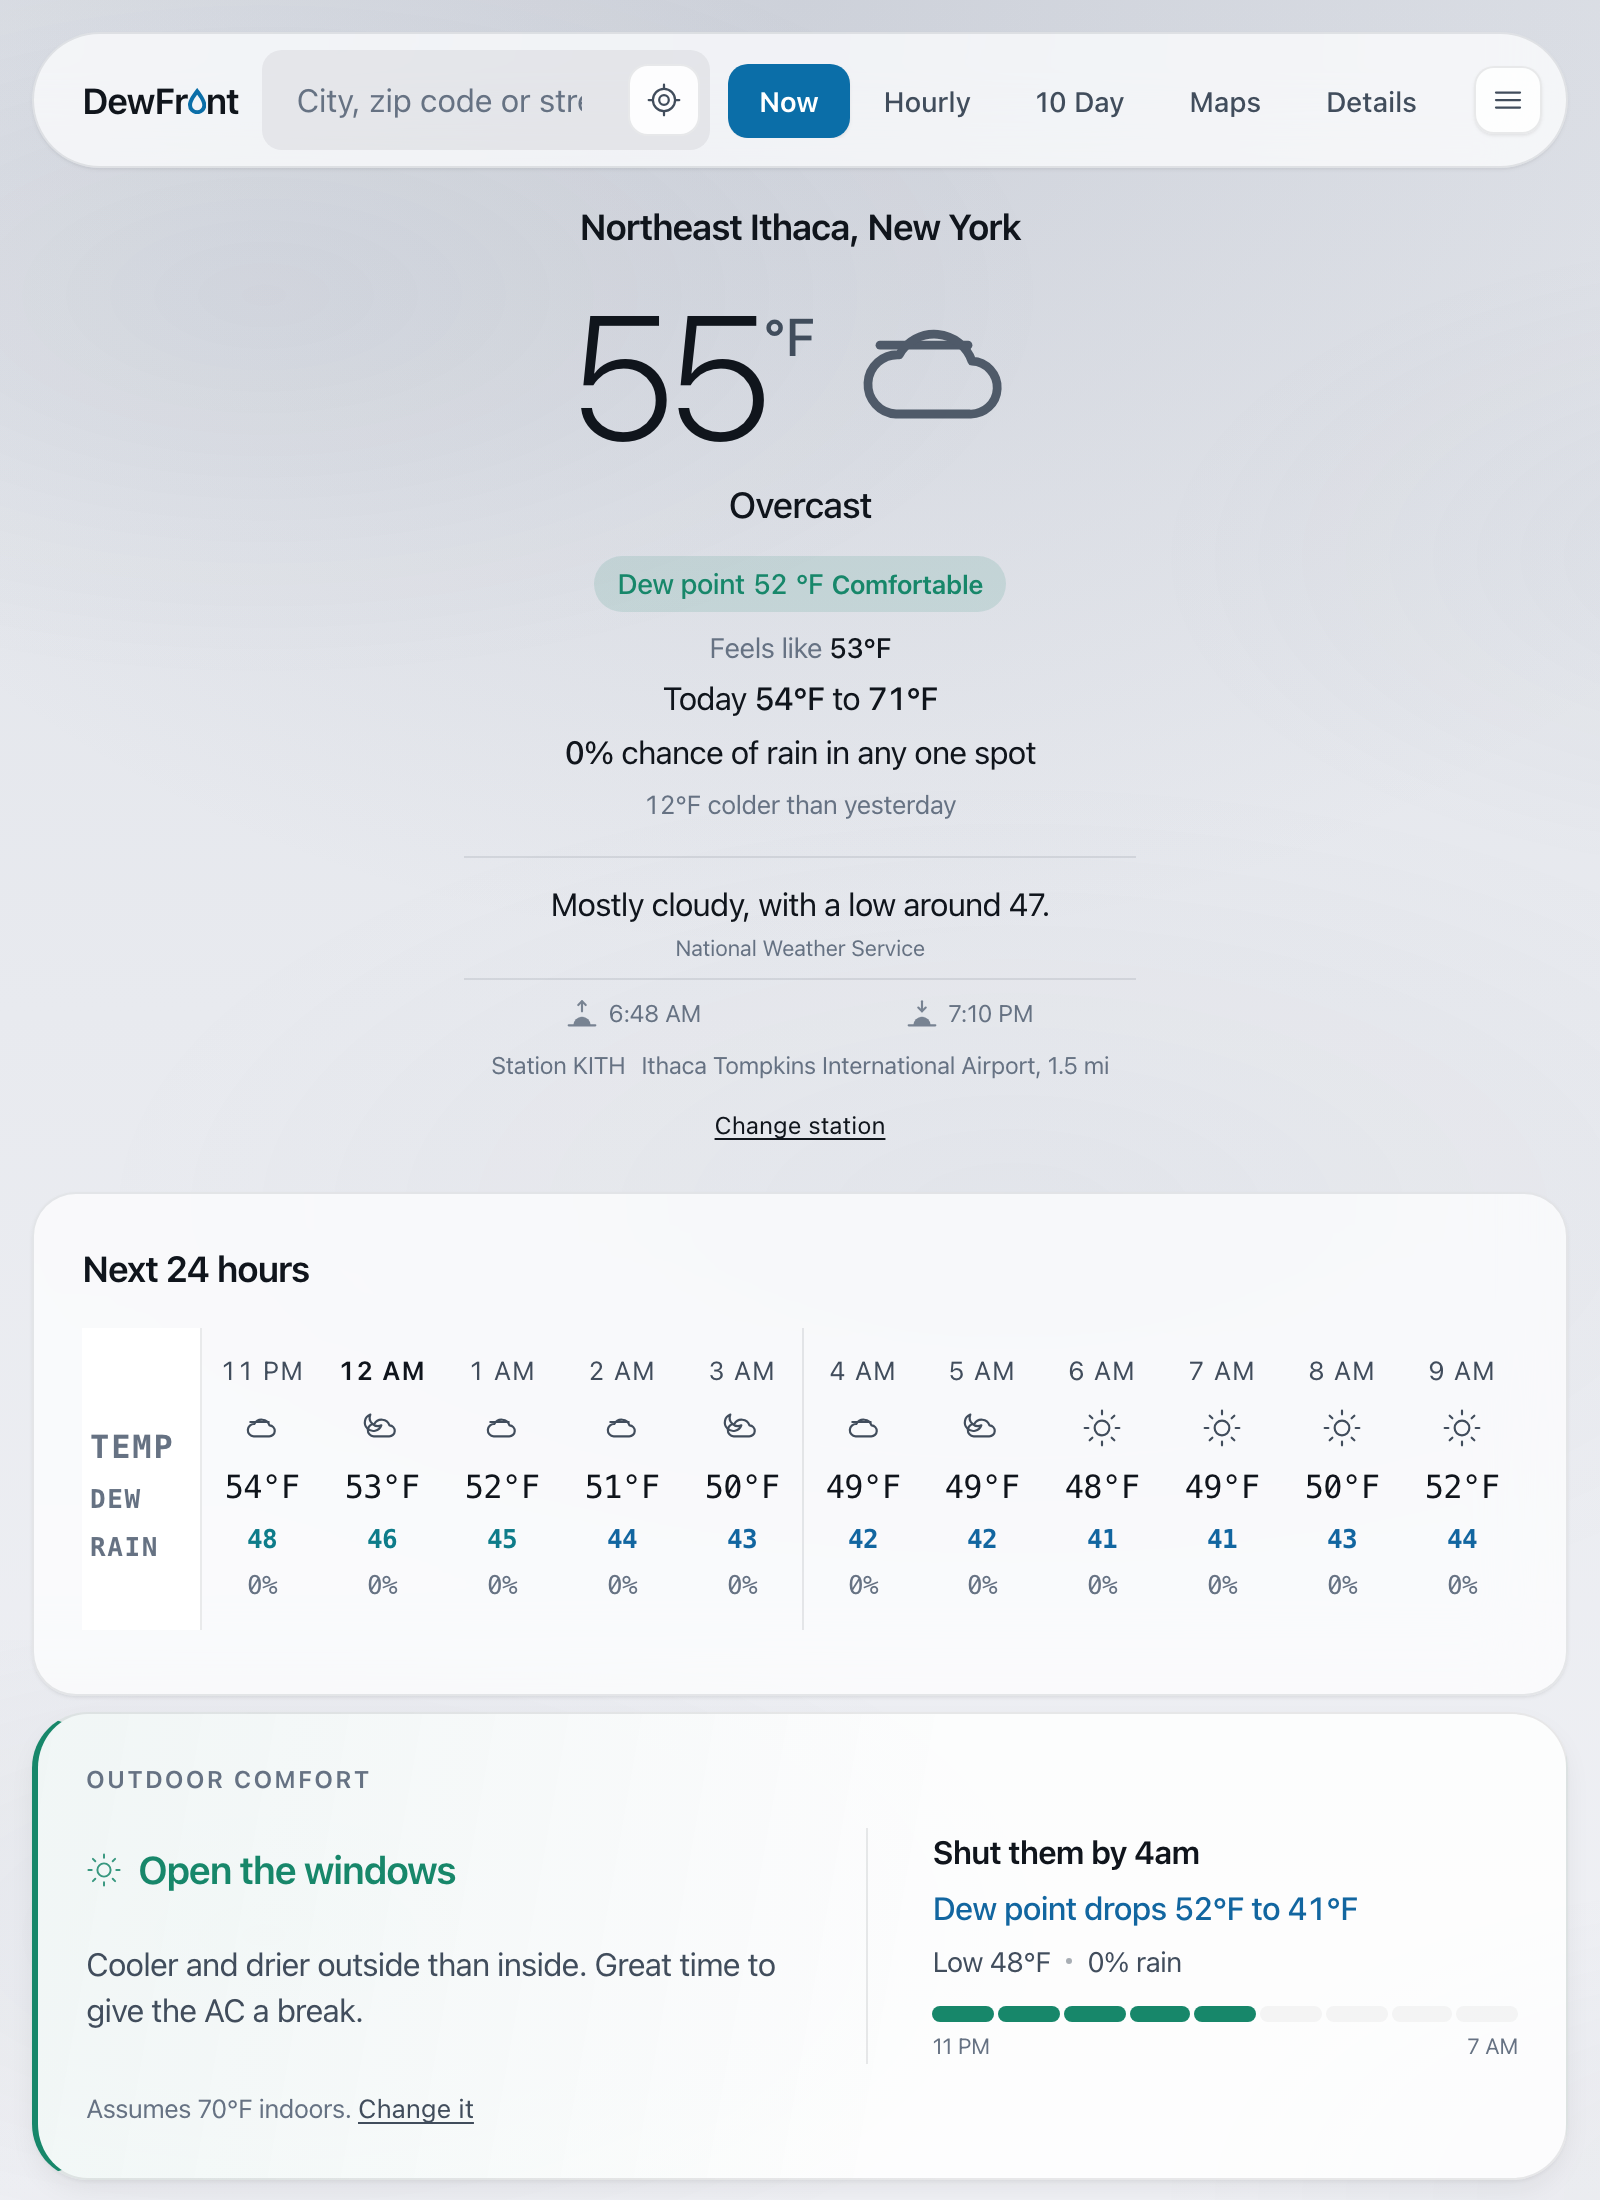
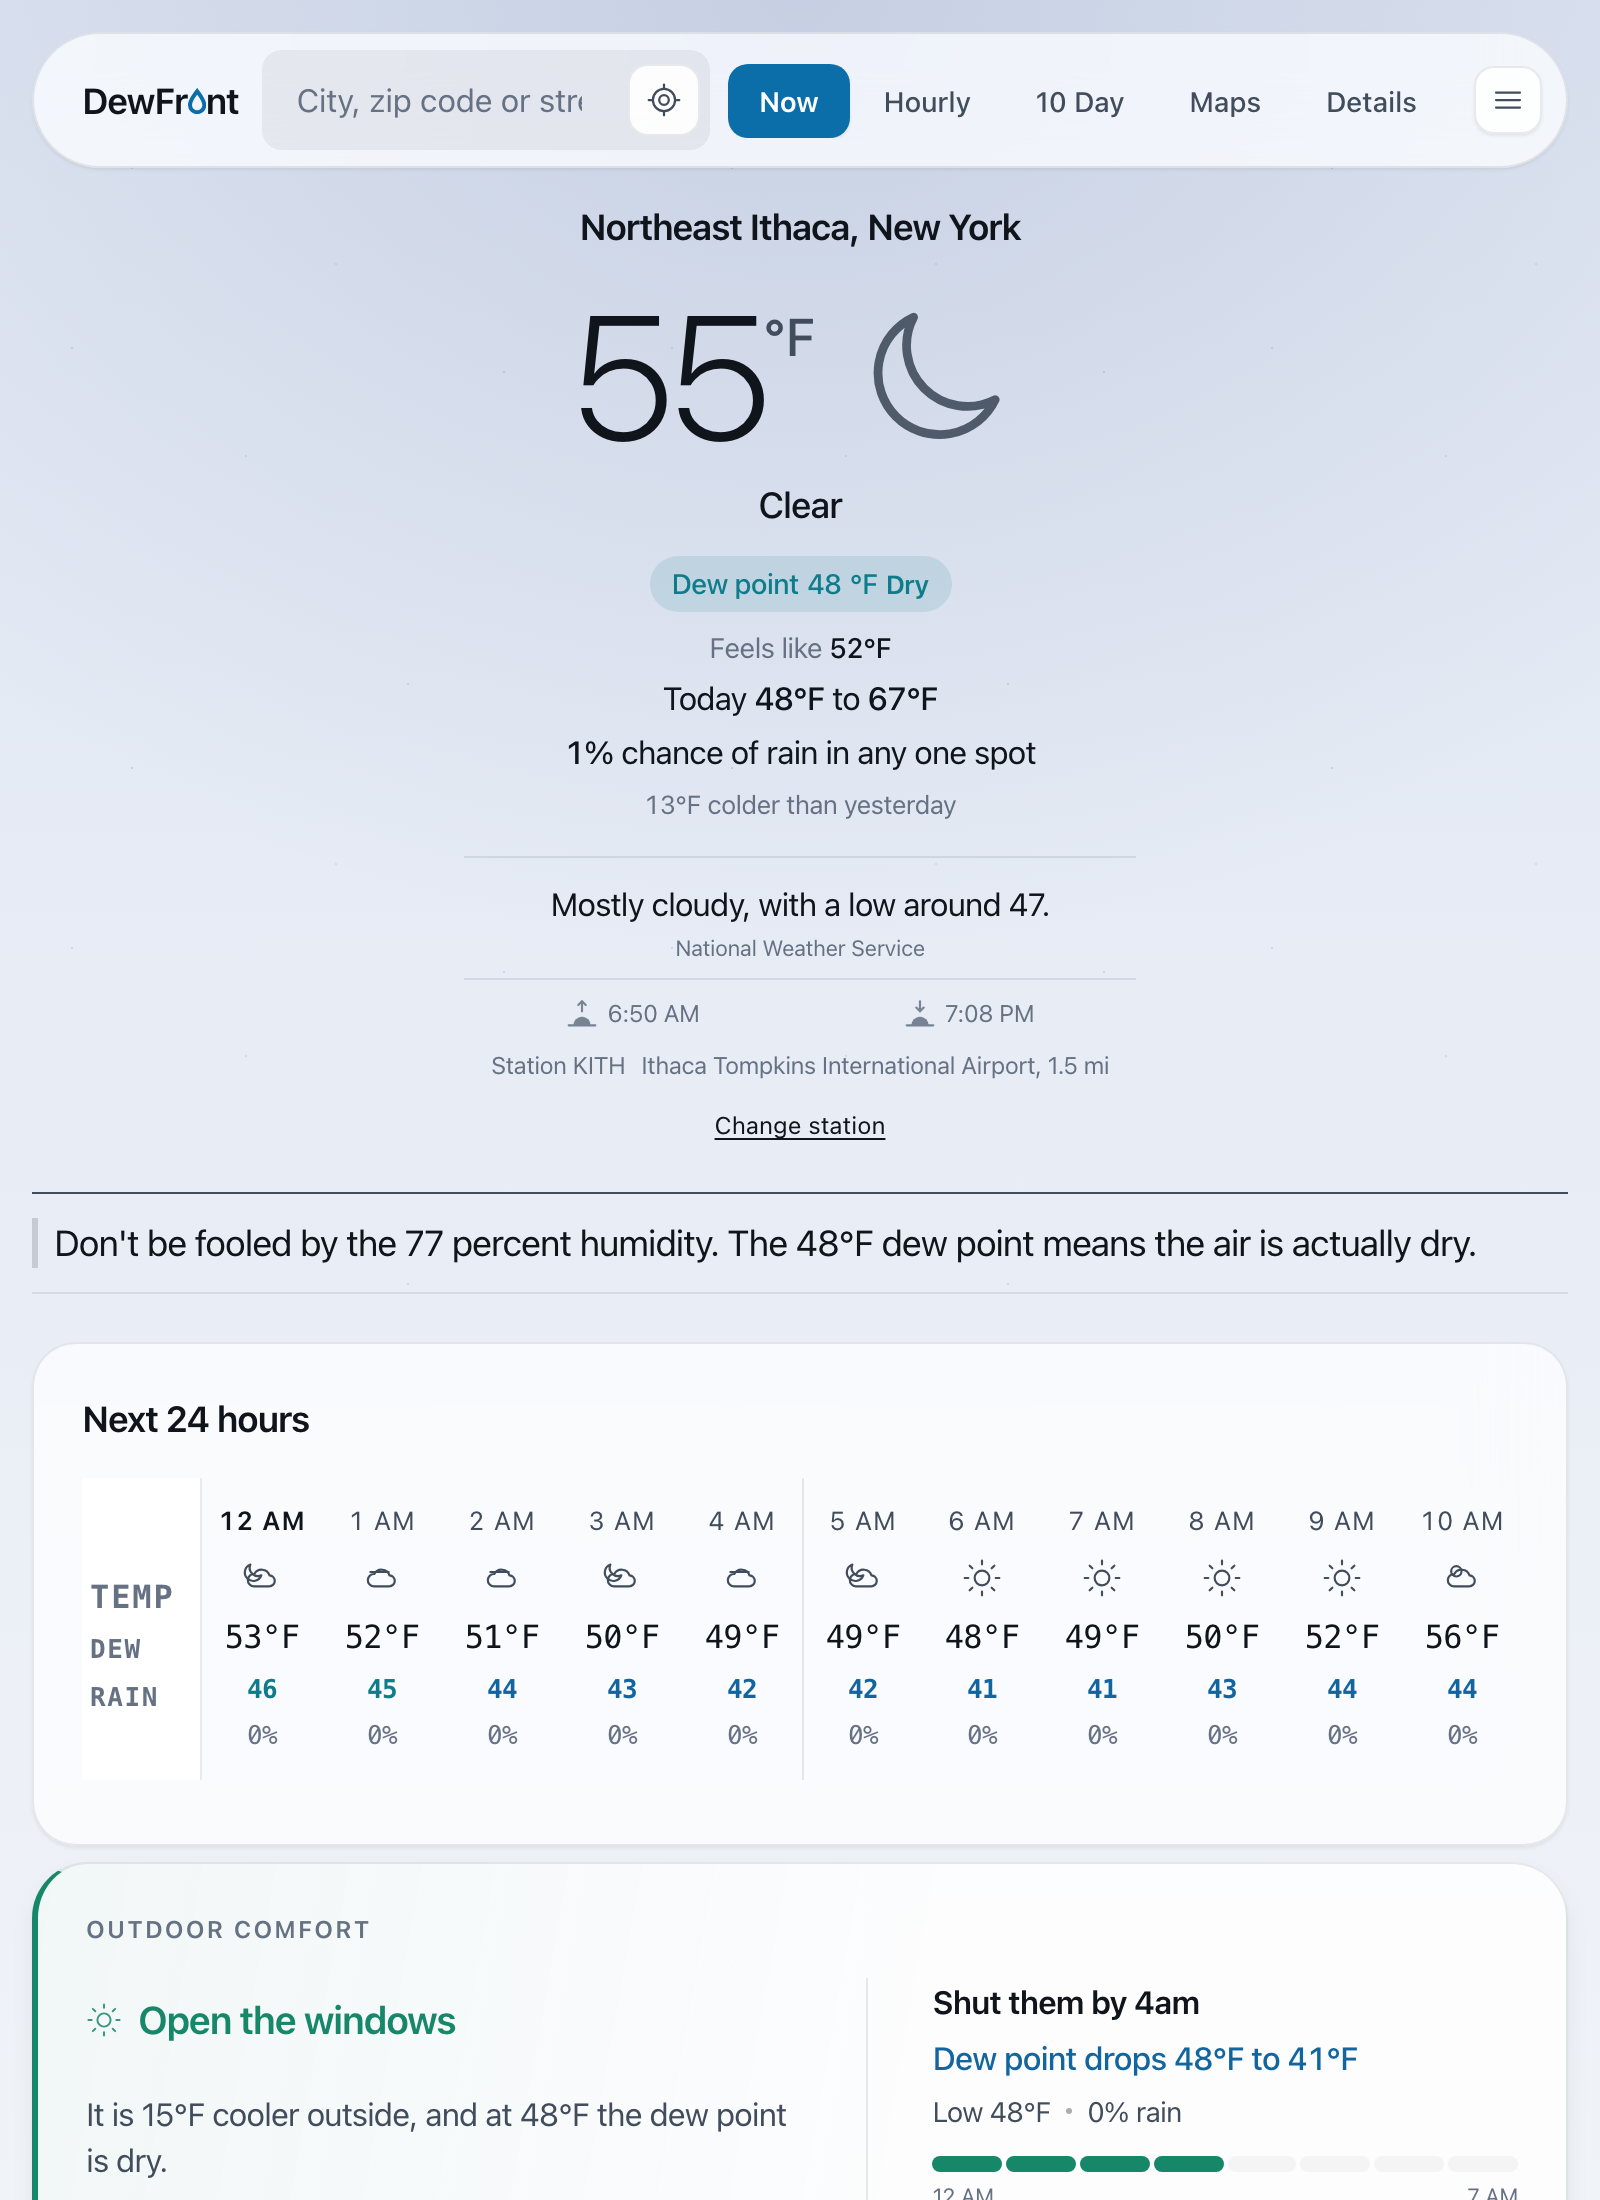
Refresh the case study against 5d90ade
Measured on 2026-09-19: 2473 unit tests across 114 files, 55 end to
end, 97.52% statement coverage, 208 non test source files.
Screenshots regenerated from https://dewfront.com/ through the app's own verify harness.

diff --git a/CHANGELOG.md b/CHANGELOG.md
@@ -12,6 +12,10 @@ What changed in DewFront, newest first. Each entry is dated by the weekend its w
 - Nights with no forecast for tomorrow, and nights before a mild day, are unchanged.
 - Fixed the Windows card contradicting itself. "Keep windows closed" and "Open until 5 AM" could appear inches apart on the same card, because its two halves used different cold floors. They now share one, so a cool evening reads the same in both.
 - Fixed the indoor target setting, which snapped to 55 or 85 as you typed and made every value in between unreachable. You can type a number now.
+- Fixed "Shut them first thing in the morning to keep the cool you banked" appearing on nights the card said to keep shut. Found in nine of twenty cities in a world-wide check.
+- A night shut by rain or wind now says so, instead of "Keep the AC on tonight".
+- "Give the AC a break" now needs a hot day, today or tomorrow. A 55°F September night no longer gets it.
+- The closing note names what actually closes the window. A cold 5 AM is no longer blamed on humidity.
 
 ---
 

diff --git a/README.md b/README.md
@@ -156,12 +156,12 @@ Measured on 2026-09-19 by running the suite against the current tree, not by rec
 
 | Metric | Value |
 |---|---|
-| Unit tests | 2,463 across 114 files |
+| Unit tests | 2,473 across 114 files |
 | End to end tests | 55 Playwright tests, upstreams mocked |
-| Statement coverage | 97.54 percent |
-| Branch coverage | 91.42 percent |
-| Function coverage | 98.29 percent |
-| Line coverage | 98.74 percent |
+| Statement coverage | 97.52 percent |
+| Branch coverage | 91.41 percent |
+| Function coverage | 98.3 percent |
+| Line coverage | 98.75 percent |
 | Source under test | roughly 33,000 lines of TypeScript across 208 non test files |
 
 The tests worth pointing at are not the ones that assert a number renders. They are the ones that assert something is **absent**: relative humidity never appears on the windows decision card, the History archive is not fetched until that screen is opened (the test counts requests to prove it), and switching to Celsius leaves no Fahrenheit anywhere on the Now screen.
